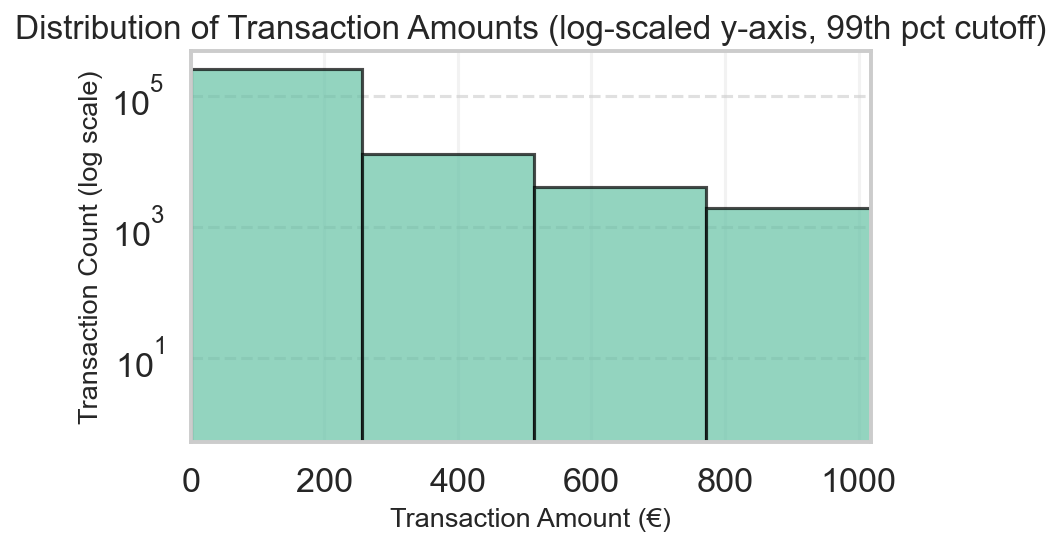
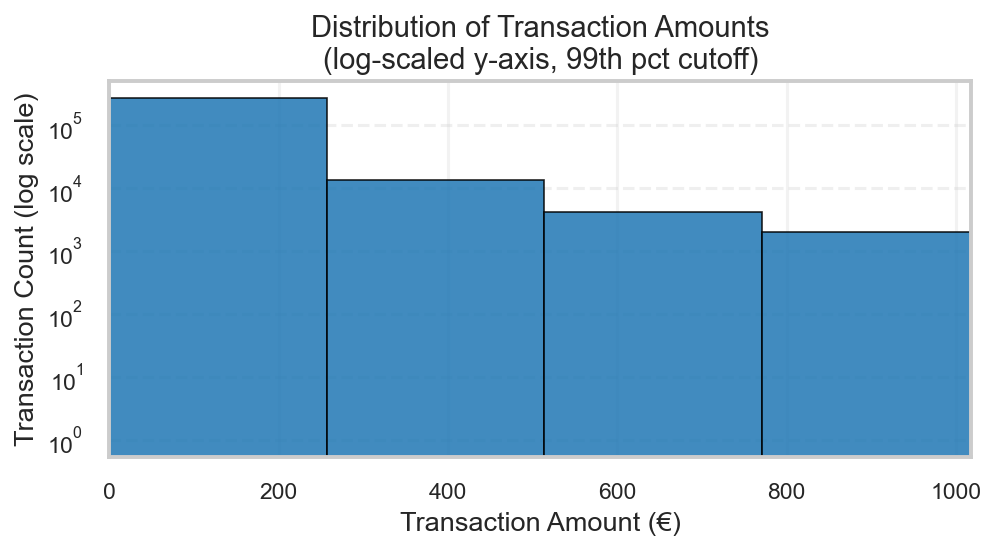
week4: add plots script (05_plots.py) and EDA visualizations

diff --git a/src/05_plots.py b/src/05_plots.py
@@ -1,0 +1,258 @@
+#!/usr/bin/env python
+# -*- coding: utf-8 -*-
+# Run on Powershell --> python .\src\05_plots.py --data ".\data\data_raw\creditcard.csv" --out ".\reports\figures\week4" --transparent
+
+from pathlib import Path
+import argparse
+import random
+import numpy as np
+import pandas as pd
+import matplotlib.pyplot as plt
+import seaborn as sns
+
+# ---- Reproducibility ----
+SEED = 42
+random.seed(SEED)
+np.random.seed(SEED)
+
+# ---- Theme ----
+sns.set_theme(style="whitegrid", context="talk")
+sns.set_palette("colorblind")
+plt.rcParams.update({
+    "figure.dpi": 120,
+    "savefig.dpi": 150,
+    "axes.titlesize": 16,
+    "axes.labelsize": 13,
+    "axes.grid": True,
+    "grid.alpha": 0.25,
+    "axes.unicode_minus": False,
+    "legend.frameon": False,
+    "legend.title_fontsize": 12,
+    "legend.fontsize": 11,
+    "xtick.labelsize": 11,
+    "ytick.labelsize": 11,
+})
+
+# ---- Helpers ----
+def save_fig(name: str, folder: Path, ext: str = "png", transparent: bool = False) -> Path:
+    """Αποθήκευση τρέχοντος figure."""
+    folder.mkdir(parents=True, exist_ok=True)
+    out = folder / f"{name}.{ext}"
+    plt.savefig(out, bbox_inches="tight", transparent=transparent)
+    print(f"[saved] {out}")
+    return out
+
+def annotate_bars(ax, show_count: bool = True, show_pct: bool = True,
+                  fontsize: int = 9, color: str = "black"):
+    """Counts & ποσοστά πάνω από μπάρες (για countplots)."""
+    patches = [p for p in ax.patches if p.get_height() is not None]
+    total = sum(p.get_height() for p in patches) if patches else 0
+    if total == 0:
+        return ax
+    for p in patches:
+        h = p.get_height()
+        parts = []
+        if show_count: parts.append(f"{int(h)}")
+        if show_pct:   parts.append(f"({h/total:.2%})")
+        ax.annotate("\n".join(parts),
+                    (p.get_x()+p.get_width()/2., h),
+                    ha="center", va="bottom", fontsize=fontsize, color=color)
+    return ax
+
+# =========================
+# Plots
+# =========================
+def plot_class_distribution(df: pd.DataFrame, out_dir: Path, transparent: bool = False):
+    # πιο έντονα χρώματα + καθαρή αντίθεση
+    PALETTE = {"Legit (0)": "#1f77b4", "Fraud (1)": "#d62728"}
+
+    df_plot = df.copy()
+    df_plot["ClassLabel"] = df_plot["Class"].map({0: "Legit (0)", 1: "Fraud (1)"})
+
+    fig = plt.figure(figsize=(6, 4))
+    fig.patch.set_facecolor("white")  # σταθερό λευκό φόντο
+    ax = sns.countplot(
+        data=df_plot, x="ClassLabel", hue="ClassLabel",
+        palette=PALETTE, legend=False
+    )
+    ax.set_title("Class Distribution (Legit vs Fraud)", fontsize=16, pad=10)
+    ax.set_xlabel("Class")
+    ax.set_ylabel("Count")
+    for bar in ax.patches:  # πιο έντονο περίγραμμα για να ξεχωρίζουν οι μπάρες
+        bar.set_edgecolor("black")
+        bar.set_linewidth(0.8)
+    ax.grid(axis="y", linestyle="--", alpha=0.25)
+    annotate_bars(ax, fontsize=10)
+    plt.tight_layout()
+    save_fig("class_distribution", out_dir, transparent=transparent)
+    plt.close()
+
+def plot_amount_hist_linear(df: pd.DataFrame, out_dir: Path, transparent: bool = False):
+    fig = plt.figure(figsize=(7, 4))
+    fig.patch.set_facecolor("white")
+    plt.hist(
+        df["Amount"],
+        bins=80,
+        color="#1f77b4",
+        edgecolor="black",
+        linewidth=0.8,
+        alpha=0.9,
+    )
+    plt.title("Distribution of Transaction Amounts (linear scale)", fontsize=16, pad=10)
+    plt.xlabel("Transaction Amount (€)")
+    plt.ylabel("Transaction Count")
+    plt.grid(axis="y", linestyle="--", alpha=0.25)
+    plt.tight_layout()
+    save_fig("amount_hist", out_dir, transparent=transparent)
+    plt.close()
+
+def plot_amount_hist_log(df: pd.DataFrame, out_dir: Path, transparent: bool = False) -> None:
+    """Ιστόγραμμα Amount (log y, 99th pct cutoff)."""
+    plt.figure(figsize=(7, 4))
+    plt.hist(
+        df["Amount"], bins=100,
+        color="#1f77b4", edgecolor="black",
+        alpha=0.85, linewidth=0.8
+    )
+    plt.yscale("log")
+    plt.xlim(0, float(df["Amount"].quantile(0.99)))
+    plt.title("Distribution of Transaction Amounts\n(log-scaled y-axis, 99th pct cutoff)", fontsize=14)
+    plt.xlabel("Transaction Amount (€)")
+    plt.ylabel("Transaction Count (log scale)")
+    plt.grid(axis="y", linestyle="--", alpha=0.3)
+    plt.tight_layout()
+    save_fig("amount_hist_log", folder=out_dir, ext="png")
+    plt.close()
+
+from matplotlib.lines import Line2D
+
+def plot_time_hist_by_class(df: pd.DataFrame, out_dir: Path, transparent: bool = False):
+    # Χρησιμοποιούμε label στήλη για σταθερό legend
+    PALETTE = {"Legit (0)": "#1f77b4", "Fraud (1)": "#d62728"}
+
+    df_plot = df.copy()
+    df_plot["ClassLabel"] = df_plot["Class"].map({0: "Legit (0)", 1: "Fraud (1)"})
+
+    fig = plt.figure(figsize=(7.2, 4.5))
+    fig.patch.set_facecolor("white")
+
+    ax = sns.histplot(
+        data=df_plot,
+        x=df_plot["Time"] / 3600,
+        bins=48,
+        hue="ClassLabel",                 # <- string labels
+        element="step",
+        stat="count",
+        common_norm=False,
+        palette=PALETTE,
+        linewidth=1.2,
+        alpha=0.9,
+        legend=False                      # <- φτιάχνουμε custom legend κάτω
+    )
+
+    ax.set_title("Transactions Over Time (0–48 hours)", fontsize=16, pad=10)
+    ax.set_xlabel("Time (hours since first transaction)")
+    ax.set_ylabel("Transaction Count")
+    ax.grid(axis="y", linestyle="--", alpha=0.25)
+
+    # Custom, καθαρό legend
+    handles = [
+        Line2D([0], [0], color=PALETTE["Legit (0)"], lw=2, label="Legit (0)"),
+        Line2D([0], [0], color=PALETTE["Fraud (1)"], lw=2, label="Fraud (1)"),
+    ]
+    leg = ax.legend(handles=handles, title="Class", frameon=True)
+    leg.get_frame().set_alpha(0.9)
+    leg.get_frame().set_edgecolor("black")
+    leg.get_frame().set_linewidth(0.6)
+
+    plt.tight_layout()
+    save_fig("time_hist", out_dir, transparent=transparent)
+    plt.close()
+
+def plot_amount_by_class_overlay(df: pd.DataFrame, out_dir: Path, transparent: bool = False) -> None:
+    """Κατανομή Amount ανά Class (normalized density overlay, 99th pct cutoff)."""
+    plt.figure(figsize=(7, 4))
+    sns.histplot(
+        data=df, x="Amount", hue="Class",
+        bins=100, element="step", stat="density", common_norm=False,
+        palette={0: "#1f77b4", 1: "#d62728"},  # πιο έντονα χρώματα
+        linewidth=1.2
+    )
+    plt.xlim(0, float(df["Amount"].quantile(0.99)))
+    plt.title("Normalized Distribution of Transaction Amounts (Legit vs Fraud)", fontsize=14)
+    plt.xlabel("Transaction Amount (€)")
+    plt.ylabel("Relative Frequency (Density)")
+    plt.legend(title="Class", labels=["Legit (0)", "Fraud (1)"], frameon=True)
+    plt.grid(axis="y", linestyle="--", alpha=0.3)
+    plt.tight_layout()
+    save_fig("amount_by_class_overlay", folder=out_dir, ext="png")
+    plt.close()
+
+def plot_amount_boxplot_log(df: pd.DataFrame, out_dir: Path, transparent: bool = False):
+    PALETTE = {"Legit (0)": "#1f77b4", "Fraud (1)": "#d62728"}
+
+    df_plot = df.copy()
+    df_plot["ClassLabel"] = df_plot["Class"].map({0: "Legit (0)", 1: "Fraud (1)"})
+
+    fig = plt.figure(figsize=(7.2, 4.5))
+    fig.patch.set_facecolor("white")
+
+    ax = sns.boxplot(
+        data=df_plot,
+        x="ClassLabel",
+        y="Amount",
+        hue="ClassLabel",
+        palette=PALETTE,
+        legend=False,
+        linewidth=1.1,
+        fliersize=2.5,  # λιγότερο «θόρυβος»
+    )
+    # κάνε τους outliers λίγο διαφανείς για να μην «μαυρίζει» η περιοχή
+    for c in ax.collections:
+        try:
+            c.set_alpha(0.7)
+        except Exception:
+            pass
+
+    plt.yscale("log")
+    ax.set_title("Distribution of Transaction Amounts (Legit vs Fraud)", fontsize=16, pad=10)
+    ax.set_xlabel("Class")
+    ax.set_ylabel("Amount (€) [log scale]")
+    ax.yaxis.set_major_formatter(plt.FuncFormatter(lambda y, _: f"{int(y):,}" if y >= 1 else f"{y:g}"))
+    ax.grid(axis="y", linestyle="--", alpha=0.25)
+    plt.tight_layout()
+    save_fig("amount_by_class_box_log", out_dir, transparent=transparent)
+    plt.close()
+
+# =========================
+# Main (CLI)
+# =========================
+def main():
+    parser = argparse.ArgumentParser(description="Generate EDA plots for credit card fraud dataset.")
+    parser.add_argument("--data", required=True, type=str, help="Path to creditcard.csv")
+    parser.add_argument("--out",  default="../../reports/figures/week4", type=str, help="Output folder for figures")
+    parser.add_argument("--transparent", action="store_true", help="Export with transparent background")
+    args = parser.parse_args()
+
+    data_path = Path(args.data)
+    out_dir   = Path(args.out)
+
+    if not data_path.exists():
+        raise FileNotFoundError(f"Δεν βρέθηκε το dataset: {data_path}")
+
+    # Light preview
+    df = pd.read_csv(data_path)
+    print(f"Shape: {df.shape}")
+    df.info(memory_usage="deep")
+    print(f"Total missing values: {int(df.isnull().sum().sum())}")
+
+    # Plots
+    plot_class_distribution(df, out_dir, transparent=args.transparent)
+    plot_amount_hist_linear(df, out_dir, transparent=args.transparent)
+    plot_amount_hist_log(df, out_dir, transparent=args.transparent)
+    plot_time_hist_by_class(df, out_dir, transparent=args.transparent)
+    plot_amount_by_class_overlay(df, out_dir, transparent=args.transparent)
+    plot_amount_boxplot_log(df, out_dir, transparent=args.transparent)
+
+if __name__ == "__main__":
+    main()
